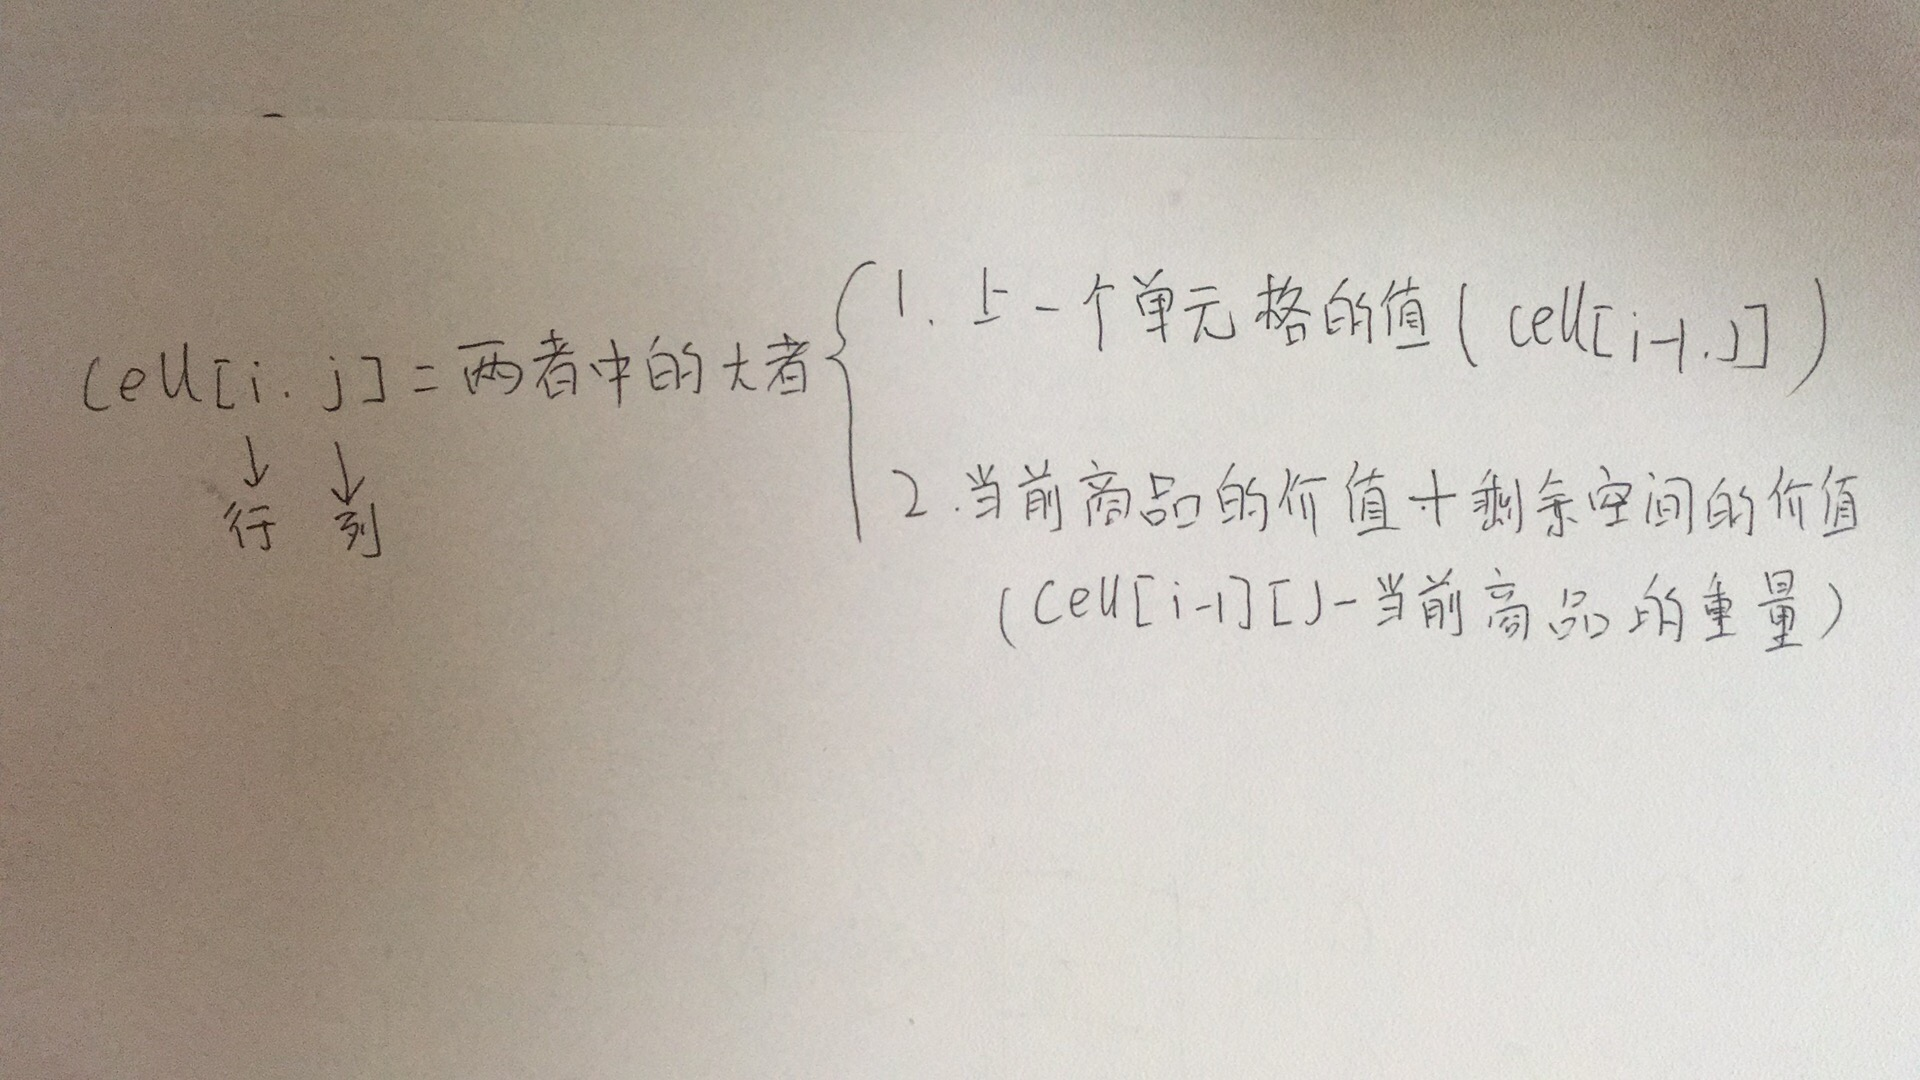
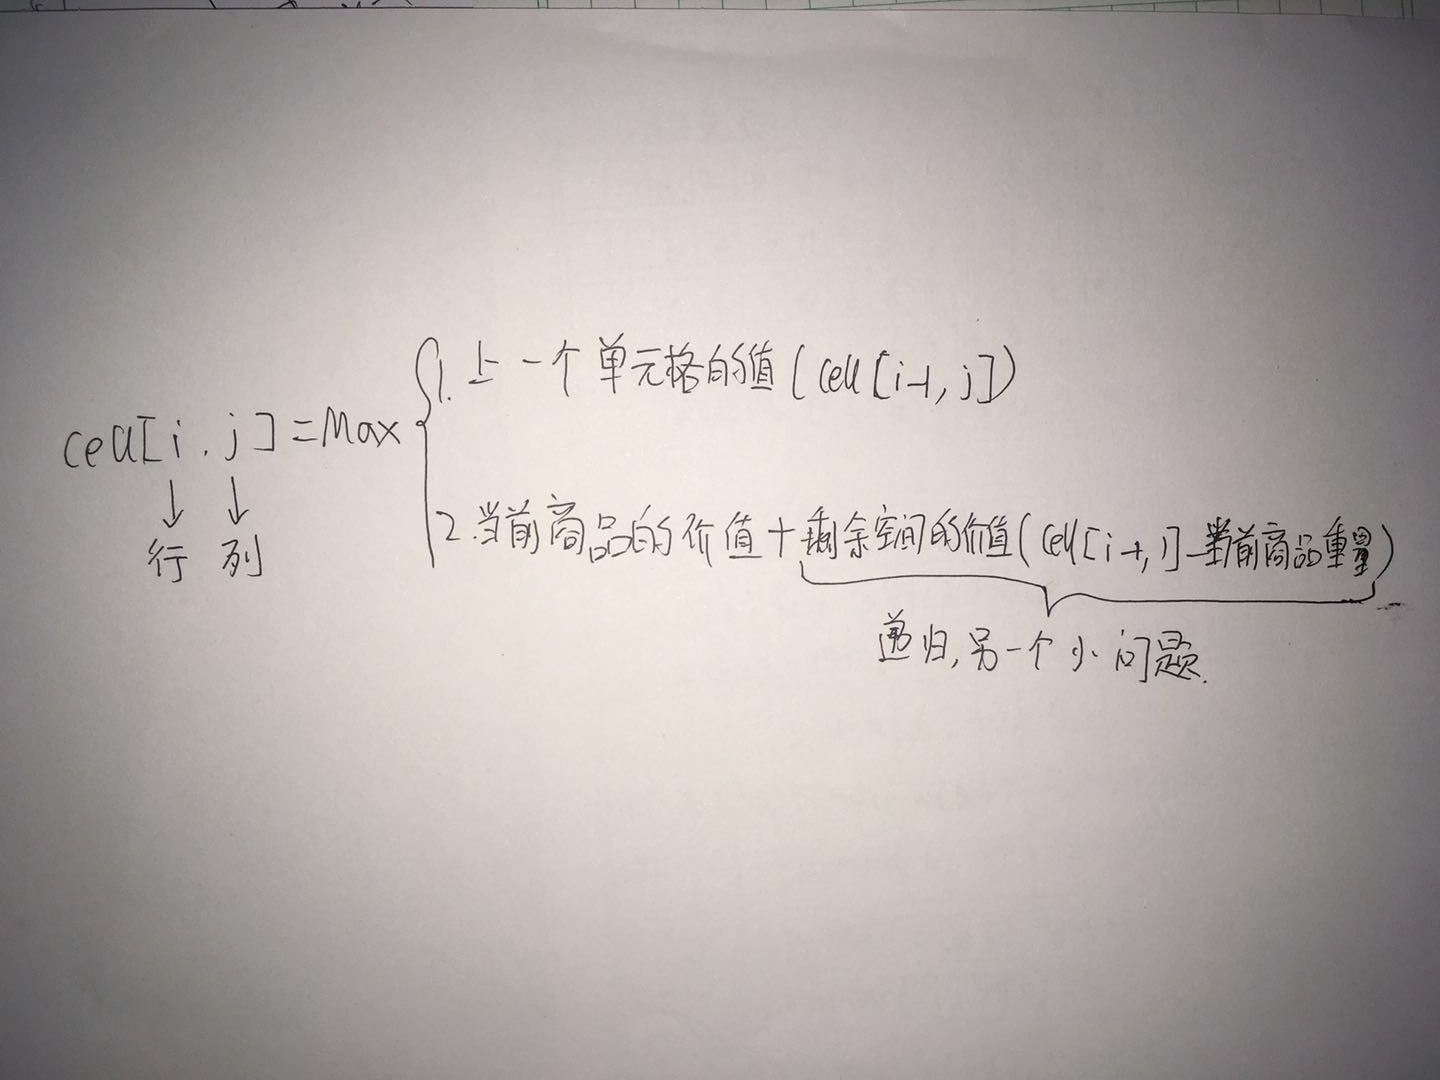
a

diff --git a/06.algorithm/01.算法基础/动态规划与背包问题.md b/06.algorithm/01.算法基础/动态规划与背包问题.md
@@ -33,6 +33,8 @@
 
 ## 动态规划解决01背包问题
 
+### 公式
+
 01背包的状态转换方程
 ```
 f[i,j] = Max{ f[i-1,j-Wi]+Pi( j >= Wi ),  f[i-1,j] }
@@ -44,6 +46,15 @@ Pi表示第i件物品的价值。
 参考算法图解，我用纸写了一个。
 
 ![](../images/动态规划-1.jpeg)
+
+### 具体题目描述
+
+假设山洞里共有a,b,c,d ,e这5件宝物（不是5种宝物），它们的重量分别是2,2,6,5,4，它们的价值分别是6,3,5,4,6，现在给你个承重为10的背包, 怎么装背包，可以才能带走最多的财富。
+
+根据题目，画了动态规划的表，如下：
+
+![](../images/动态规划-2.jpeg)
+
 ## 参考
 
 - 算法图解
